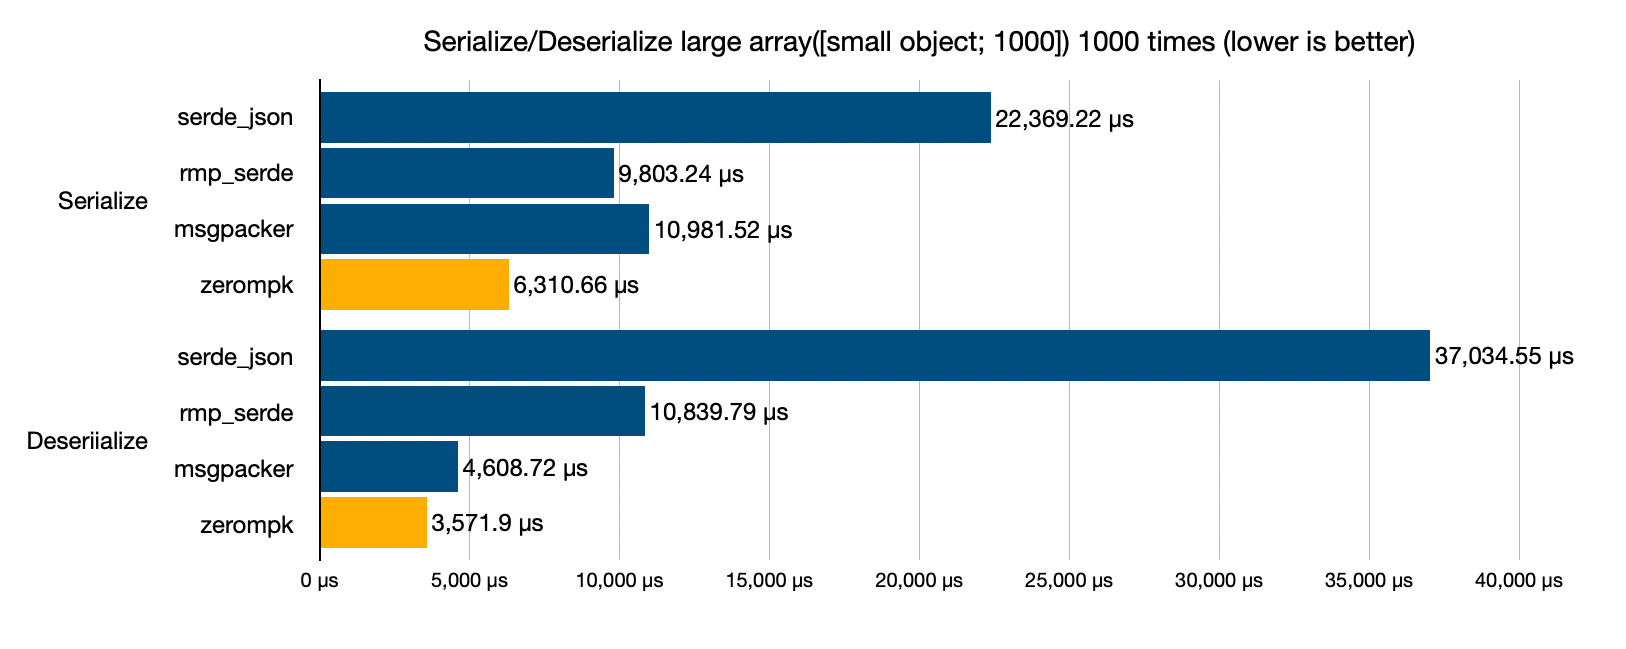
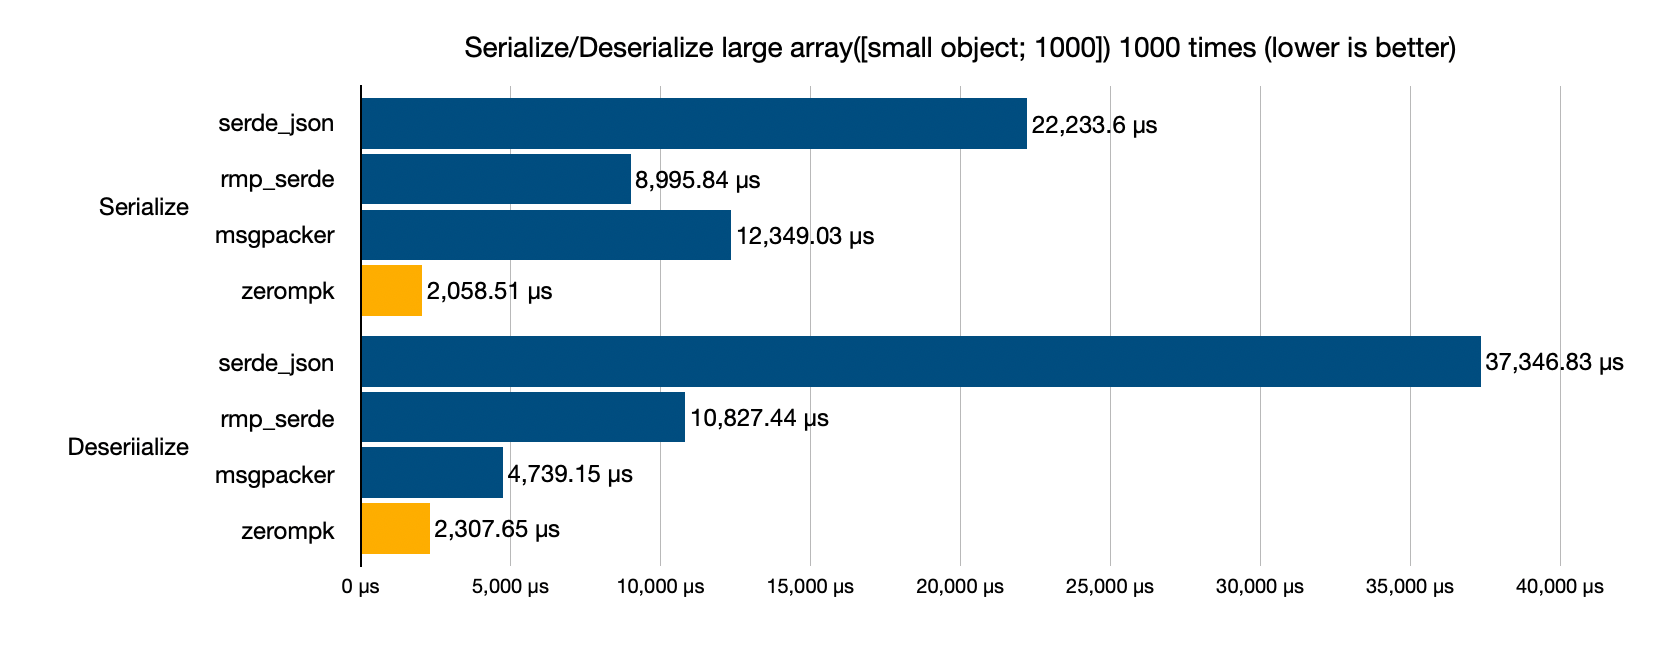
chore: update benchmark results

diff --git a/README_JA.md b/README_JA.md
@@ -580,7 +580,7 @@ MessagePackフォーマット上の制約から、zero-copyデシリアライズ
 ほかにもzerompkは様々な最適化によってパフォーマンスを向上させています。
 
 - 積極的なインライン化による関数呼び出しの削減
-- `unsafe`コードによる不要な境界チェックの排除
+- 不要な境界チェックの排除
 - `zerompk::{Read, Write}`による中間層の最小化
 - オートマトンベースの文字列探索によるmap形式のデシリアライズの高速化
 
@@ -595,35 +595,35 @@ MessagePackフォーマット上の制約から、zero-copyデシリアライズ
 
 | Crate               | Serialize | Deserialize |
 | ------------------- | --------: | ----------: |
-| `serde_json` (JSON) |  98.33 μs |   329.12 μs |
-| `msgpacker`         |  25.41 μs |   134.37 μs |
-| `rmp_serde`         |  56.22 μs |    97.00 μs |
-| `zerompk`           |  12.38 μs |    72.27 μs |
+| `serde_json` (JSON) | 102.11 μs |   271.82 μs |
+| `msgpacker`         |  24.40 μs |    95.24 μs |
+| `rmp_serde`         |  54.38 μs |    76.95 μs |
+| `zerompk`           |  10.71 μs |    44.91 μs |
 
 ### Serialize/Deserialize Struct (with 4 fields, map format) 1000 times
 
-| Crate              | Serialize | Deserialize |
-| ------------------ | --------: | ----------: |
-| `serde_json` (JSON) |  98.33 μs |   329.12 μs |
-| `rmp_serde`         |  92.63 μs |    98.31 μs |
-| `zerompk`           |  18.76 μs |    71.19 μs |
+| Crate               | Serialize | Deserialize |
+| ------------------- | --------: | ----------: |
+| `serde_json` (JSON) | 101.66 μs |   271.21 μs |
+| `rmp_serde`         |  65.14 μs |    76.64 μs |
+| `zerompk`           |  11.91 μs |    55.98 μs |
 | `msgpacker`         |       N/A |         N/A |
 
 ### Serialize/Deserialize Array (struct with 2 fields, 1000 elements) 1000 times
 
-| Crate              |    Serialize |  Deserialize |
-| ------------------ | -----------: | -----------: |
-| `serde_json` (JSON) | 22,369.22 μs | 37,034.55 μs |
-| `rmp_serde`         |  9,803.24 μs | 10,839.79 μs |
-| `msgpacker`         | 10,981.52 μs |  4,608.72 μs |
-| `zerompk`           |  2,632.23 μs |  3,571.90 μs |
+| Crate               |    Serialize |  Deserialize |
+| ------------------- | -----------: | -----------: |
+| `serde_json` (JSON) | 22,233.60 μs | 37,346.83 μs |
+| `rmp_serde`         |  8,995.84 μs | 10,827.44 μs |
+| `msgpacker`         | 12,349.03 μs |  4,739.15 μs |
+| `zerompk`           |  2,058.51 μs |  2,307.65 μs |
 
 ### Serialize/Deserialize Struct (with 2 fields, no-copy) 1000 times
 
 | Crate       | Serialize | Deserialize |
 | ----------- | --------: | ----------: |
-| `rmp_serde` |  15.47 μs |    16.82 μs |
-| `zerompk`   |   8.57 μs |    10.33 μs |
+| `rmp_serde` |  13.45 μs |    16.85 μs |
+| `zerompk`   |   7.81 μs |     8.93 μs |
 
 ## セキュリティ
 

diff --git a/README.md b/README.md
@@ -578,7 +578,7 @@ Due to constraints in the MessagePack format, zero-copy deserialization is limit
 zerompk improves performance through various optimizations:
 
 - Aggressive inlining to reduce function calls
-- Elimination of unnecessary boundary checks using `unsafe` code
+- Elimination of unnecessary boundary checks
 - Minimization of intermediate layers with `zerompk::{Read, Write}`
 - Automaton-based string search for faster deserialization of map formats
 
@@ -593,35 +593,35 @@ Many of these optimizations are inspired by the high-performance MessagePack ser
 
 | Crate               | Serialize | Deserialize |
 | ------------------- | --------: | ----------: |
-| `serde_json` (JSON) |  98.33 μs |   329.12 μs |
-| `msgpacker`         |  25.41 μs |   134.37 μs |
-| `rmp_serde`         |  56.22 μs |    97.00 μs |
-| `zerompk`           |  12.38 μs |    72.27 μs |
+| `serde_json` (JSON) | 102.11 μs |   271.82 μs |
+| `msgpacker`         |  24.40 μs |    95.24 μs |
+| `rmp_serde`         |  54.38 μs |    76.95 μs |
+| `zerompk`           |  10.71 μs |    44.91 μs |
 
 ### Serialize/Deserialize Struct (with 4 fields, map format) 1000 times
 
 | Crate               | Serialize | Deserialize |
 | ------------------- | --------: | ----------: |
-| `serde_json` (JSON) |  98.33 μs |   329.12 μs |
-| `rmp_serde`         |  92.63 μs |    98.31 μs |
-| `zerompk`           |  18.76 μs |    71.19 μs |
+| `serde_json` (JSON) | 101.66 μs |   271.21 μs |
+| `rmp_serde`         |  65.14 μs |    76.64 μs |
+| `zerompk`           |  11.91 μs |    55.98 μs |
 | `msgpacker`         |       N/A |         N/A |
 
 ### Serialize/Deserialize Array (struct with 2 fields, 1000 elements) 1000 times
 
 | Crate               |    Serialize |  Deserialize |
 | ------------------- | -----------: | -----------: |
-| `serde_json` (JSON) | 22,369.22 μs | 37,034.55 μs |
-| `rmp_serde`         |  9,803.24 μs | 10,839.79 μs |
-| `msgpacker`         | 10,981.52 μs |  4,608.72 μs |
-| `zerompk`           |  6,310.66 μs |  3,571.90 μs |
+| `serde_json` (JSON) | 22,233.60 μs | 37,346.83 μs |
+| `rmp_serde`         |  8,995.84 μs | 10,827.44 μs |
+| `msgpacker`         | 12,349.03 μs |  4,739.15 μs |
+| `zerompk`           |  2,058.51 μs |  2,307.65 μs |
 
 ### Serialize/Deserialize Struct (with 2 fields, no-copy) 1000 times
 
 | Crate       | Serialize | Deserialize |
 | ----------- | --------: | ----------: |
-| `rmp_serde` |  15.47 μs |    16.82 μs |
-| `zerompk`   |   8.57 μs |    10.33 μs |
+| `rmp_serde` |  13.45 μs |    16.85 μs |
+| `zerompk`   |   7.81 μs |     8.93 μs |
 
 ## Security
 
